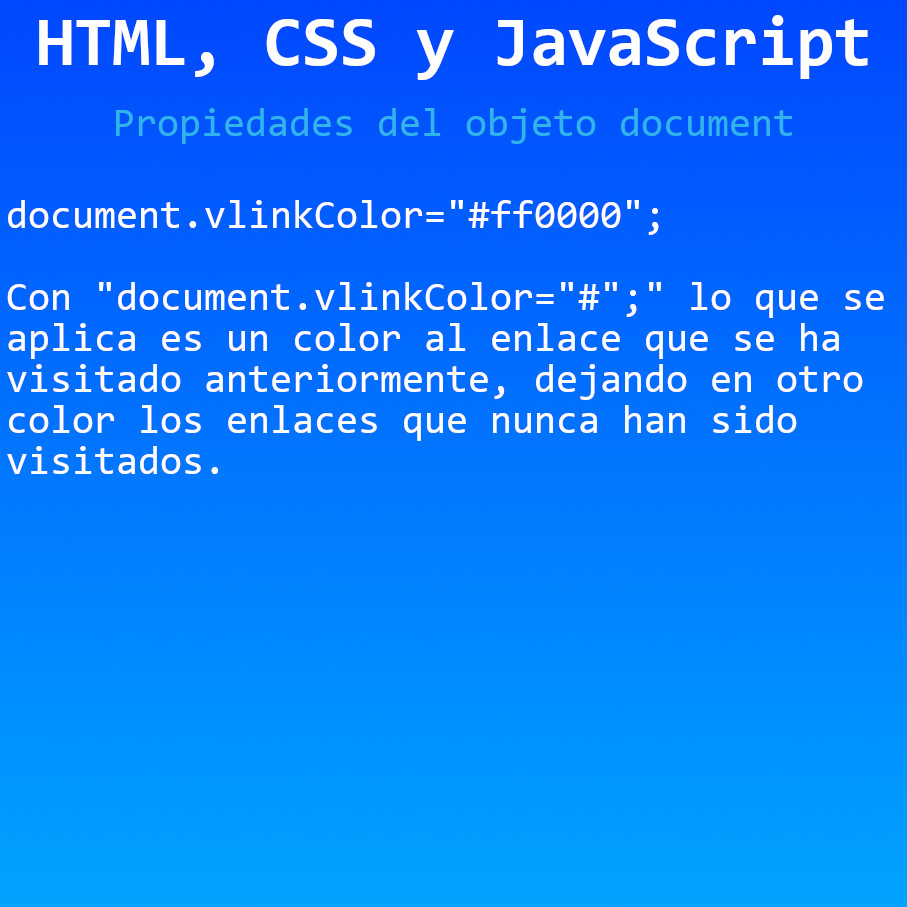
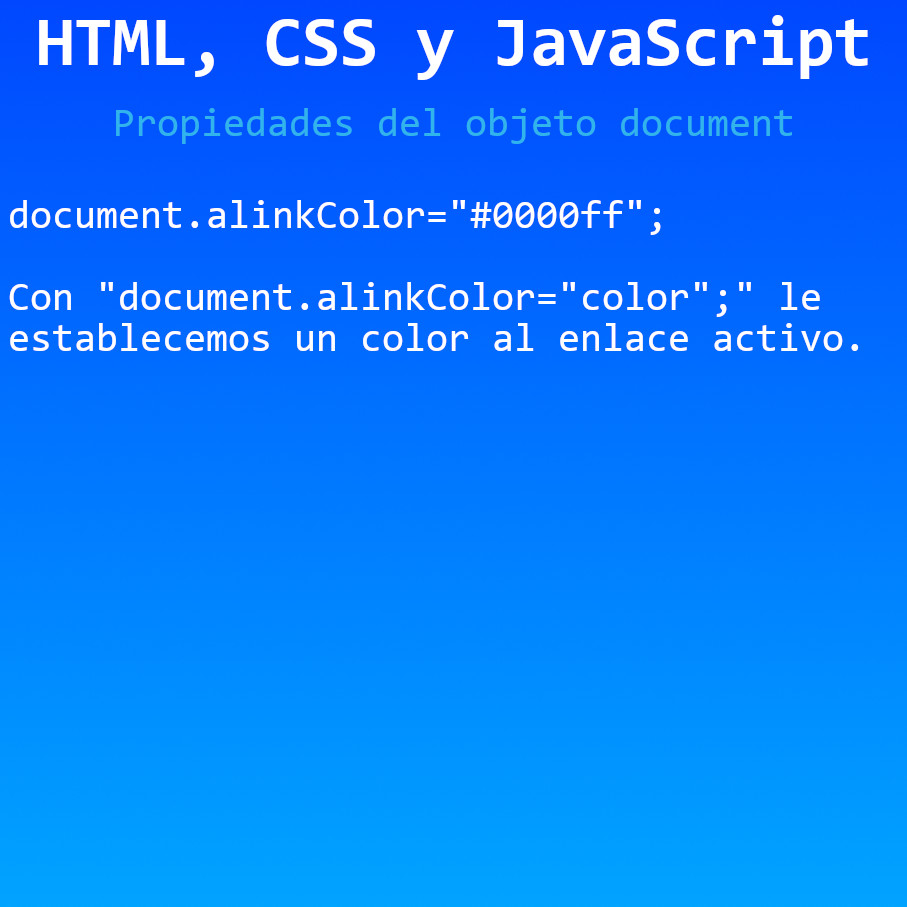
Propiedades del objeto document
Propiedades del objeto document en JavaScript

diff --git a/HTML, CSS y JavaScript/Propiedades del objeto document/js/funciones.js b/HTML, CSS y JavaScript/Propiedades del objeto document/js/funciones.js
@@ -8,4 +8,6 @@ function funcion() {
   document.linkColor="#00ff00";
   // cambiar color de enlace visitado
   document.vlinkColor="#ff0000";
+  // cambiar color de enlace activo
+  document.alinkColor="#0000ff";
 }
